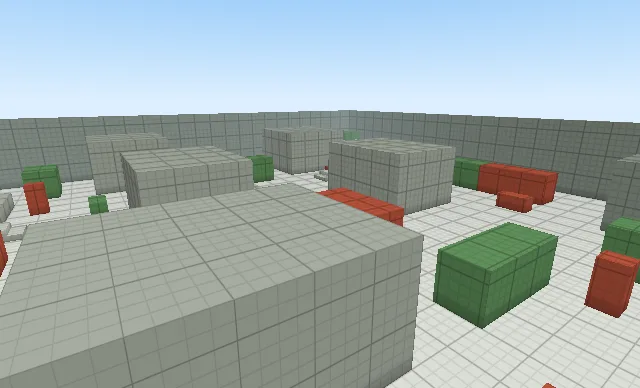
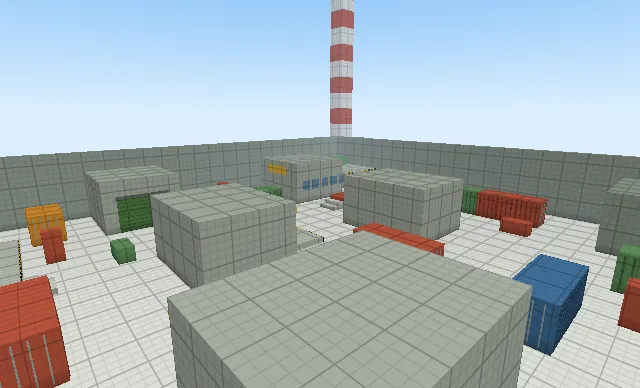
Identidade visual nos mapas de DM
Cada mapa ganha elementos do mapa em que se inspira, quase todos só
visuais (sem colisão), para não mexer na navegação nem nos spawns:

- Medina (Mirage): caixas de fogo, arco mourisco no meio e no túnel,
  toldos listrados, cúpulas azuis, azulejos, janelas e palmeiras.
- Depósito (Cache): chaminé listrada, portas de enrolar verdes,
  contêineres com nervuras, cabine do caminhão, empilhadeira e faixas
  de alerta.
- Borgo (Inferno): igreja com torre do sino e rosácea, galpão de feno
  com fardos, telhados de telha, varais, venezianas e vasos.
- Dust II: portas azuis do Long, portas de madeira, carro verde e o
  grafite do pato.

Cards do menu regerados e README atualizado.

Claude-Session: https://claude.ai/code/session_01SJ8oPAPunZCdTLFhtHxKgN

diff --git a/index.html b/index.html
@@ -830,6 +830,15 @@ MAPS.deathmatch = {
     // Túneis e conector baixo
     B.box(-20.5,-1,C,2*C,C,K.crate);B.box(-18,8,C,C,2*C,K.crate2);B.box(-22.6,11,C,C,C,K.crate);B.box(-12.5,8.6,2*C,C,C,K.crate);
     B.box(-14.5,13.5,C,C,C,K.crate2);B.box(7.5,-1.2,C,C,C,K.crate2);
+    // Identidade (clima do Mirage): caixas de fogo, arcos mouriscos, toldos de mercado, cúpulas de azulejo, palmeiras.
+    propFirebox(B,14.6,-12.0);propFirebox(B,-19.5,-16.2);
+    const arch=(x0,x1,z0,z1,y0,col=0xe9d5aa)=>{const w=(x1-x0)/2,cx=(x0+x1)/2;for(let i=0;i<4;i++){const o=w*(1-i*.22);dR(B,x0,y0+i*.4,z0,cx-o+w*.0,y0+(i+1)*.4,z1,col);dR(B,cx+o,y0+i*.4,z0,x1,y0+(i+1)*.4,z1,col);}dR(B,x0,y0+1.6,z0,x1,5,z1,col);dR(B,x0,4.75,z0-.05,x1,5.05,z1+.05,0x2f6fb0);};
+    arch(-1.2,1.2,-10.5,-9.5,3.0);arch(-21,-19,-7,-6,2.9);
+    propAwning(B,-9,-4,-7.6,4,2.9,[0xc0392b,0xf2ede0],'z');propAwning(B,2.6,-15,4,-6,2.9,[0x2f6fb3,0xf2ede0],'z');propAwning(B,-11,9.6,-4,11,2.9,[0xe0a32e,0xf2ede0],'x');
+    propDome(B,-6.5,-15,2.3,5,0x2e7fa8);propDome(B,10.5,7,3,5,0x2e7fa8);propDome(B,3.5,17.2,1.6,5,0x2e7fa8);
+    propTiles(B,'x+',10,-15.5,-4.5,0,.8,[0x2f6fb3,0xf2ede0,0x3a9fb5]);propTiles(B,'z-',11,-11,-4,0,.8,[0x2f6fb3,0xf2ede0,0x3a9fb5]);propTiles(B,'x+',-9,-5.5,5.5,0,.8,[0x2f6fb3,0xf2ede0,0x3a9fb5]);
+    for(const z of [-13,-8])propPanel(B,'x-',4,z-.6,z+.6,1.6,3.0,0x2b4f6e);for(const x of [7.5,12])propPanel(B,'z-',3,x-.6,x+.6,1.6,3,0x2b4f6e);
+    propPalm(B,23,16.5);propPalm(B,-23,-15.8);propPalm(B,8,-23,5.4);
   }
 };
 // Dust II: norte no topo da planta de referência. A malha usa apenas sólidos e rampas do jogo.
@@ -954,6 +963,19 @@ MAPS.dust2 = {
     crate(-23.4, -25.4, bPlat + 1.35, 1.2, 1.55, .95);
     crate(-27.2, -22.6, bPlat, 1.55, 2.3, 1.45);
     crate(-29.4, -18.1, b, 1.6, 1.6, 2.05);
+
+    // Identidade: portas azuis da Long, portas de madeira do Meio e do B, carro na Long e o ganso pintado no A.
+    const leaf = (x0, z0, x1, z1, y, h, col, trim) => { dR(B, x0, y, z0, x1, y + h, z1, col); const alongZ = z1 - z0 > x1 - x0;
+      for (const f of [.3, .62]) alongZ ? dR(B, x0 - .02, y + h * f, z0 + .08, x1 + .02, y + h * f + .09, z1 - .08, trim) : dR(B, x0 + .08, y + h * f, z0 - .02, x1 - .08, y + h * f + .09, z1 + .02, trim); };
+    leaf(12.3, 8.45, 12.4, 9.5, long, 2.8, 0x2f6aa8, 0x6f9ccc); leaf(14.05, 8.8, 14.15, 9.85, long, 2.8, 0x2f6aa8, 0x6f9ccc);
+    dR(B, 12.3, long + 2.85, 8.3, 14.15, long + 3.05, 8.95, 0x2f6aa8);
+    leaf(-3.5, -10.25, -3.4, -9.3, mid, 2.7, 0x7a5232, 0x5a3b22); leaf(-1.85, -9.9, -1.75, -8.95, mid, 2.7, 0x7a5232, 0x5a3b22);
+    leaf(-17.2, -19.6, -16.25, -19.5, mid, 2.8, 0x7a5232, 0x5a3b22); leaf(-17.2, -17.55, -16.25, -17.45, mid, 2.8, 0x7a5232, 0x5a3b22);
+    B.solid([24, long, -12], [25.8, long + .9, -8], 0x3d6b52); B.solid([24.15, long + .9, -11.2], [25.65, long + 1.5, -8.8], 0x355e48);
+    dR(B, 24.1, long + .95, -11.25, 25.7, long + 1.45, -11.15, 0x22303a); dR(B, 24.1, long + .95, -8.85, 25.7, long + 1.45, -8.75, 0x22303a);
+    for (const x of [23.95, 25.8]) for (const z of [-11.3, -8.8]) dR(B, x, long, z - .35, x + .07, long + .55, z + .35, 0x1d1d1d);
+    const goose = ['..XX....', '.XXXX...', '..XX....', '..XXXXX.', '.XXXXXXX', '..XXXXX.'];
+    goose.forEach((row, r) => [...row].forEach((ch, c) => { if (ch === 'X') dR(B, 23.4 + c * .32, 6.6 - (r + 1) * .32, -34.98, 23.4 + (c + 1) * .32, 6.6 - r * .32, -34.94, 0xf2f0ea); }));
     crate(-21.25, -12.3, b, 2.65, 1.5, 1.1);
     crate(-29.9, -28.8, bPlat, 1.55, 1.5, 1.25);
 
@@ -1004,6 +1026,75 @@ function buildDust2Walls(B, color, ax, az, footprint) {
   }
   for (const [a, b] of walls) B.solid(a, b, color);
 }
+// ---------- Peças de identidade dos mapas (blocos no estilo do jogo) ----------
+// deco = só visual; solid/box = com colisão. Troncos e torres passam de 4,5 m para não virarem "chão".
+const dR=(B,x0,y0,z0,x1,y1,z1,c)=>B.deco([Math.min(x0,x1),Math.min(y0,y1),Math.min(z0,z1)],[Math.max(x0,x1),Math.max(y0,y1),Math.max(z0,z1)],c);
+function propPalm(B,x,z,h=6){
+  B.solid([x-.22,0,z-.22],[x+.22,h,z+.22],0x8a6a43);
+  for(let i=0;i<4;i++)dR(B,x-.27,i*1.4+.7,z-.27,x+.27,i*1.4+.85,z+.27,0x6b5032);
+  const leaf=[0x4f8f3a,0x3e7a2f];
+  for(const [dx,dz] of [[1,0],[-1,0],[0,1],[0,-1],[.7,.7],[-.7,.7],[.7,-.7],[-.7,-.7]])for(let k=0;k<3;k++){
+    const d=.35+k*.75,y=h-.05-k*.32-(dx&&dz?.15:0),cx=x+dx*d,cz=z+dz*d,w=dx&&dz?.32:(k===2?.42:.55);
+    dR(B,cx-(dz&&!dx?w:.45),y-.12,cz-(dx&&!dz?w:.45),cx+(dz&&!dx?w:.45),y,cz+(dx&&!dz?w:.45),leaf[k%2]);
+  }
+  dR(B,x-.32,h-.1,z-.32,x+.32,h+.18,z+.32,0x4f8f3a);
+}
+// Caixa de fogo: caixote de madeira com braseiro de ferro e chamas.
+function propFirebox(B,x,z){
+  B.box(x,z,1.4,1.4,1.1,0x8a5a2e);
+  for(const dz of [-.45,.45])dR(B,x-.72,0,z+dz-.06,x+.72,1.1,z+dz+.06,0x4a3626);
+  dR(B,x-.48,1.1,z-.48,x+.48,1.42,z+.48,0x2e2a28);dR(B,x-.4,1.42,z-.4,x+.4,1.48,z+.4,0x7a2a12);
+  for(const [fx,fz,h,c] of [[0,0,.85,0xff7a1a],[-.2,.12,.6,0xffa52a],[.18,-.15,.7,0xff8d1f],[.05,.2,.45,0xffd23a],[-.12,-.18,.4,0xffd23a],[.2,.18,.35,0xffe27a]])
+    dR(B,x+fx-.13,1.48,z+fz-.13,x+fx+.13,1.48+h,z+fz+.13,c);
+}
+// Toldo listrado de mercado preso a uma parede (axis 'x' = listras ao longo de x).
+function propAwning(B,x0,z0,x1,z1,y,cols,axis){
+  const n=Math.max(2,Math.round((axis==='x'?x1-x0:z1-z0)/.6));
+  for(let i=0;i<n;i++){const a=i/n,b=(i+1)/n,c=cols[i%cols.length];
+    if(axis==='x')dR(B,x0+(x1-x0)*a,y,z0,x0+(x1-x0)*b,y+.12,z1,c);else dR(B,x0,y,z0+(z1-z0)*a,x1,y+.12,z0+(z1-z0)*b,c);}
+}
+function propDome(B,cx,cz,r,y,col,top=0xd9a93a){
+  for(let i=0;i<4;i++){const q=r*(1-i*.24);dR(B,cx-q,y+i*.45,cz-q,cx+q,y+(i+1)*.45,cz+q,i%2?col:0x4a9fc9);}
+  dR(B,cx-.15,y+1.8,cz-.15,cx+.15,y+2.6,cz+.15,top);
+}
+// Faixa de azulejos (quadrados alternados) numa face de parede; face: 'x+','x-','z+','z-' com a coordenada da parede.
+function propTiles(B,face,c,a0,a1,y0,y1,cols,sz=.4){
+  const s=face[1]==='+'?1:-1;
+  for(let a=a0,i=0;a<a1-.01;a+=sz,i++)for(let y=y0,j=0;y<y1-.01;y+=sz,j++){const col=cols[(i+j)%cols.length],a2=Math.min(a1,a+sz),y2=Math.min(y1,y+sz);
+    if(face[0]==='x')dR(B,c,y,a,c+s*.04,y2,a2,col);else dR(B,a,y,c,a2,y2,c+s*.04,col);}
+}
+function propPanel(B,face,c,a0,a1,y0,y1,col,depth=.05){const s=face[1]==='+'?1:-1;if(face[0]==='x')dR(B,c,y0,a0,c+s*depth,y1,a1,col);else dR(B,a0,y0,c,a1,y1,c+s*depth,col);}
+// Porta de enrolar de galpão: painel com nervuras horizontais.
+function propRollDoor(B,face,c,a0,a1,h,col,rib){propPanel(B,face,c,a0,a1,0,h,col,.05);for(let y=.3;y<h;y+=.35)propPanel(B,face,c,a0+.05,a1-.05,y,y+.07,rib,.08);propPanel(B,face,c,a0-.12,a1+.12,h,h+.25,0x5d6661,.12);}
+function propSmokestack(B,x,z,h,w){
+  dR(B,x-w*.75,0,z-w*.75,x+w*.75,3,z+w*.75,0x8c8f8a);
+  for(let y=3,i=0;y<h;y+=3,i++)dR(B,x-w/2,y,z-w/2,x+w/2,Math.min(h,y+3),z+w/2,i%2?0xf1efe8:0xc23b2b);
+  dR(B,x-w*.6,h,z-w*.6,x+w*.6,h+.6,z+w*.6,0x3b3d3c);
+}
+function propContainer(B,x0,z0,x1,z1,h,col,y=0){
+  B.solid([x0,y,z0],[x1,y+h,z1],col);
+  const dark=((col>>16&255)*.72<<16)|((col>>8&255)*.72<<8)|((col&255)*.72|0),longX=x1-x0>z1-z0;
+  if(longX){for(let x=x0+.3;x<x1-.2;x+=.45)for(const z of [z0-.04,z1])dR(B,x,y+.1,z,x+.12,y+h-.1,z+.04,dark);
+    for(const x of [x0-.04,x1])for(let z=z0+.35;z<z1-.2;z+=.5)dR(B,x,y+.15,z,x+.04,y+h-.15,z+.06,0x9aa09c);}
+  else{for(let z=z0+.3;z<z1-.2;z+=.45)for(const x of [x0-.04,x1])dR(B,x,y+.1,z,x+.04,y+h-.1,z+.12,dark);
+    for(const z of [z0-.04,z1])for(let x=x0+.35;x<x1-.2;x+=.5)dR(B,x,y+.15,z,x+.06,y+h-.15,z+.04,0x9aa09c);}
+}
+// Faixa de perigo amarela e preta numa face (para bordas de plataforma).
+function propHazard(B,face,c,a0,a1,y0,y1){const s=face[1]==='+'?1:-1;for(let a=a0,i=0;a<a1-.01;a+=.4,i++){const col=i%2?0x1f1f1f:0xe2b62a,a2=Math.min(a1,a+.4);if(face[0]==='x')dR(B,c,y0,a,c+s*.05,y1,a2,col);else dR(B,a,y0,c,a2,y1,c+s*.05,col);}}
+// Telhado de telhas em três degraus sobre um prédio (cumeeira ao longo do eixo mais longo).
+function propRoof(B,x0,z0,x1,z1,y,col=0xb0583a){
+  const alongX=x1-x0>=z1-z0,half=(alongX?z1-z0:x1-x0)/2+.25;
+  for(let i=0;i<3;i++){const k=i*.3*half;
+    if(alongX)dR(B,x0-.25,y+i*.4,z0-.25+k,x1+.25,y+(i+1)*.4,z1+.25-k,i%2?col:0x9c4a30);
+    else dR(B,x0-.25+k,y+i*.4,z0-.25,x1+.25-k,y+(i+1)*.4,z1+.25,i%2?col:0x9c4a30);}
+}
+function propShutters(B,face,c,a,y,col=0x3f7a4a){propPanel(B,face,c,a-.55,a+.55,y,y+1.1,0x3a2c22,.04);propPanel(B,face,c,a-.95,a-.55,y,y+1.1,col,.07);propPanel(B,face,c,a+.55,a+.95,y,y+1.1,col,.07);}
+function propHay(B,x,z,w,d,h){B.box(x,z,w,d,h,0xd9b54a);for(let i=1;i<3;i++){const yy=h*i/3;dR(B,x-w/2-.03,yy-.04,z-d/2-.03,x+w/2+.03,yy+.04,z+d/2+.03,0xb08a2c);}}
+function propLaundry(B,x0,z0,x1,z1,y){
+  dR(B,x0,y,z0-.02,x1,y+.03,z1+.02,0x3b3b3b);
+  const cols=[0xf2f0ea,0xc0392b,0x2f6fb3,0xe8c64a,0x6aa84f];const L=Math.hypot(x1-x0,z1-z0);
+  for(let i=0;i*1.1+.6<L;i++){const t=(i*1.1+.6)/L,x=x0+(x1-x0)*t,z=z0+(z1-z0)*t;dR(B,x-.3,y-.8,z-.03,x+.3,y,z+.03,cols[i%cols.length]);}
+}
 // Escada de degraus de 0,4 m (o passo sobe sozinho): começa na beirada de uma plataforma de altura `top`
 // e desce para fora na direção (dx, dz), com largura w.
 function dmStairs(B,x,z,dx,dz,w,top,col){for(let i=1;i*.4<top-.01;i++){const c=(i-.5)*.8;B.box(x+dx*c,z+dz*c,dx?.8:w,dz?.8:w,Math.round((top-i*.4)*100)/100,col);}}
@@ -1024,9 +1115,8 @@ MAPS.dmdeposito = {
     bld(-14,-24,-7,-16);       // depósito noroeste
     bld(15,15,24,24,K.wall);   // canto sudeste
     // contêineres de 2,6 m: cobertura alta, sem subir
-    dmRect(B,-3,-14.2,3,-11.8,CT,K.crate);dmRect(B,-1.2,3,1.2,9,CT,K.crate2);dmRect(B,-2,13.8,4,16.2,CT,K.crate);
-    dmRect(B,-21.2,-3,-18.8,3,CT,K.crate2);dmRect(B,17.8,-2,20.2,4,CT,K.crate);dmRect(B,17.8,4,20.2,10,CT,K.crate2);
-    dmRect(B,-12,19.8,-6,22.2,CT,K.crate2);dmRect(B,7.8,17,10.2,23,CT,K.crate);dmRect(B,-19.2,-21,-16.8,-17,CT,K.crate);
+    for(const [x0,z0,x1,z1,col] of [[-3,-14.2,3,-11.8,K.crate],[-1.2,3,1.2,9,K.crate2],[-2,13.8,4,16.2,0x3f6f9a],[-21.2,-3,-18.8,3,K.crate2],[17.8,-2,20.2,4,K.crate],
+      [17.8,4,20.2,10,K.crate2],[-12,19.8,-6,22.2,0x3f6f9a],[7.8,17,10.2,23,K.crate],[-19.2,-21,-16.8,-17,0xd08a2e]])propContainer(B,x0,z0,x1,z1,CT,col);
     // partes elevadas
     dmRect(B,-24,-16,-20,-6,1.2,K.plat);dmStairs(B,-20,-7.2,1,0,2,1.2,K.ramp);                 // passarela oeste
     dmRect(B,17,-24,24,-15,2.4,K.plat);dmStairs(B,19.5,-15,0,1,2.4,2.4,K.ramp);                // mirante nordeste
@@ -1037,6 +1127,18 @@ MAPS.dmdeposito = {
     B.box(-14,-9.5,C,2*C,C,K.crate);B.box(-9,8.6,2*C,C,C,K.crate2);B.box(12.5,-5.5,2*C,C,C,K.crate);B.box(1.5,-17.5,C,C,C,K.crate2);
     B.box(-21.5,9,C,C,C,K.crate);B.box(15,9,C,2*C,C,K.crate2);B.box(5.5,13.5,C,C,C,K.crate);B.box(-6,-13,C,C,C,K.crate2);
     B.box(22.6,-4,1.8,1.2,2*C,K.crate);B.box(0,-20.5,C,C,2*C,K.crate2);B.box(-14,4.5,C,C,2*C,K.crate);B.box(-18,-12.5,C,C,2*C,K.crate2);B.box(4,18.5,C,C,2*C,K.crate2);
+    // Identidade (clima do Cache): chaminé listrada ao fundo, portas de enrolar nos galpões, cabine do caminhão,
+    // empilhadeira, faixas de perigo nas bordas elevadas, parede quadriculada e janelas de escritório.
+    propSmokestack(B,32,-31,34,3.2);dR(B,27,0,-36,37,6,-29,0x7d827d);
+    propRollDoor(B,'z-',8,-15.2,-11.4,3.4,0x4f7a43,0x3f6234);propRollDoor(B,'z-',8,-10.6,-6.8,3.4,0x4f7a43,0x3f6234);
+    propRollDoor(B,'x+',-5,-6.5,-2.5,3.2,0x4f7a43,0x3f6234);propRollDoor(B,'z+',-16,-12.8,-8.2,3.2,0x4f7a43,0x3f6234);
+    propPanel(B,'z-',8,-16,-6,4.2,4.6,0xe2b62a);propPanel(B,'x+',-5,-8,1,4.2,4.6,0xe2b62a);
+    B.box(17.8,-9,1.6,2.4,2.5,0x3b6fa8);dR(B,18.6,1.4,-9.9,18.66,2.3,-8.1,0x24323c);dR(B,16.9,1.5,-10.25,18.7,2.2,-10.19,0x24323c);
+    for(const x of [10,12.5,15,17.8])for(const z of [-10.32,-7.68])dR(B,x-.45,0,z-.06,x+.45,.75,z+.06,0x1d1d1d);
+    B.box(15,-5.3,1.2,1.6,1.1,0xe0b52c);dR(B,14.45,1.1,-6.1,15.55,1.25,-4.5,0x2d2d2d);dR(B,14.5,0,-6.3,14.62,2.6,-6.1,0x3a3a3a);dR(B,15.38,0,-6.3,15.5,2.6,-6.1,0x3a3a3a);dR(B,14.5,.2,-7.2,15.5,.28,-6.3,0x7a7a7a);
+    propHazard(B,'x+',-20,-16,-7.2,.75,1.2);propHazard(B,'z+',-15,17,19.5-1.2,1.95,2.4);propHazard(B,'z+',-15,20.7,24,1.95,2.4);propHazard(B,'x+',-1.5,-7,0,.75,1.2);
+    for(let z=-6;z<6;z+=.8)for(let y=0;y<3.2;y+=.8)dR(B,-23.98,y,z,-23.94,y+.8,z+.8,((z+6)/.8+y/.8)%2<1?0x1e1e1e:0xf0f0ee);
+    for(let x=7;x<13.5;x+=1.6)propPanel(B,'z+',-13,x,x+1.1,1.6,2.8,0x5f8399);propPanel(B,'x-',6,-19,-15,3.4,4.4,0xe2b62a);
   }
 };
 // Borgo: vila italiana com ruelas, igreja, corredor estreito a oeste, sacadas a 2,4 m no leste (dois acessos)
@@ -1054,7 +1156,7 @@ MAPS.dmborgo = {
     bld(-12,3,-4,9);             // casas do corredor
     bld(-24,12,-18,24,K.wall);   // sudoeste
     bld(2,-14,10,-6);            // quarteirão norte
-    bld(4,0,10,8);               // quarteirão leste
+    bld(4,0,10,8,0x7a5232);      // galpão de feno (madeira)
     bld(14,-24,24,-18);          // sobrado nordeste
     bld(-3,16,6,24);             // sobrados do sul
     // arcos: muros com vãos de 2,4 m
@@ -1068,10 +1170,28 @@ MAPS.dmborgo = {
     dmRect(B,-4,-9,1,-5,1.2,K.plat);dmStairs(B,1,-7,1,0,2,1.2,K.ramp);dmStairs(B,-1.5,-5,0,1,2,1.2,K.ramp);
     B.box(0,1,2.2,2.2,.9,K.crate2);                                                           // fonte
     // caixotes e carroças
-    B.box(-16,-14,2*C,C,C,K.crate);B.box(-20.5,-15,C,C,2*C,K.crate2);B.box(-14.5,15,C,C,C,K.crate);B.box(-15.5,0,C,2*C,C,K.crate2);
+    propHay(B,-16,-14,2*C,C,C);B.box(-20.5,-15,C,C,2*C,K.crate2);propHay(B,-14.5,15,C,C,C);B.box(-15.5,0,C,2*C,C,K.crate2);
     B.box(13,-14,C,2*C,C,K.crate);B.box(14.5,8,2*C,C,C,K.crate2);B.box(9,12,C,C,C,K.crate);B.box(2,11,2*C,C,C,K.crate);
     B.box(-6,13,C,C,C,K.crate2);B.box(-1,-18.5,2*C,C,C,K.crate);B.box(16,19,C,C,2*C,K.crate2);B.box(7,-16.5,C,C,C,K.crate);
     B.box(5,-19.5,2,2,H,K.wall);B.box(-15.5,14.8,3,1,H,K.wall);B.box(3,-2.5,C,C,C,K.crate);B.box(13,16,C,C,2*C,K.crate);
+    // Identidade (clima do Inferno): igreja com torre do sino, telhados de telha, galpão de feno, fardos,
+    // varais nas ruelas, venezianas verdes, fonte com água e vasos de barro.
+    B.solid([-9,5,-21.5],[-6.4,9.6,-18.9],0xd9b98a);
+    for(const [x,z] of [[-9,-21.5],[-6.8,-21.5],[-9,-19.3],[-6.8,-19.3]])B.solid([x,9.6,z],[x+.4,11.4,z+.4],0xd9b98a);
+    dR(B,-8.1,9.9,-20.6,-7.3,10.9,-19.8,0xb8862b);dR(B,-7.85,10.9,-20.35,-7.55,11.2,-20.05,0x6b4b1e);
+    for(let i=0;i<3;i++){const q=1.5-i*.45;dR(B,-7.7-q,11.4+i*.45,-20.2-q,-7.7+q,11.85+i*.45,-20.2+q,i%2?0xb0583a:0x9c4a30);}
+    dR(B,-7.8,12.75,-20.3,-7.6,13.6,-20.1,0x3a3a3a);dR(B,-8.15,13.15,-20.25,-7.25,13.3,-20.15,0x3a3a3a);
+    propPanel(B,'z+',-17,-11.2,-8.8,0,3.2,0x5a3b22,.06);for(const x of [-10.6,-9.4])dR(B,x-.04,.3,-16.94,x+.04,2.9,-16.88,0x3a2616);
+    for(let i=0;i<4;i++){const q=.85-i*.2;dR(B,-10-q,4.15-q,-16.98,-10+q,4.15+q,-16.92+i*.02,[0x7a5a3a,0xb03a2e,0x2f6fb3,0xe0b52c][i]);} // rosácea
+    for(const [x0,z0,x1,z1] of [[-14,-24,-6,-17],[-24,-10,-18,4],[-12,-11,-5,-4],[-12,3,-4,9],[-24,12,-18,24],[2,-14,10,-6],[14,-24,24,-18],[-3,16,6,24]])propRoof(B,x0,z0,x1,z1,5);
+    propRoof(B,4,0,10,8,5,0x8b3a2a);
+    propPanel(B,'x-',4,1,7,0,3.6,0x8a5d36,.06);for(const z of [1.1,4.05])dR(B,3.9,.1,z,3.95,3.5,z+2.85,0x6a4528);dR(B,3.88,1.6,1,3.93,1.9,7,0xf2ede0);dR(B,3.88,0,3.98,3.93,3.6,4.02,0x3a2616);
+    propPanel(B,'x-',4,3.2,4.8,4.0,4.8,0x2a1d14,.06);propHay(B,2.8,6.6,1.2,1.4,.9);
+    propLaundry(B,-18,-7,-12,-7,3.9);propLaundry(B,10.2,-9.8,18,-9.8,4.0);propLaundry(B,-12,11,-4,11,3.8);
+    for(const [f,c,a,y] of [['x+',-18,-6,2.4],['x+',-18,-1,2.4],['z-',3,-9,2.6],['z-',3,-6,2.6],['x+',10,-11,2.4],['z+',-4,-9,2.4],['x-',-12,-8,2.4],['z-',16,1.5,2.6],['x+',-18,18,2.4]])propShutters(B,f,c,a,y);
+    dR(B,-.95,.9,.05,.95,.95,1.95,0x4a90c8);dR(B,-.2,0,.8,.2,1.7,1.2,0xd9c7a2);dR(B,-.45,1.6,.55,.45,1.75,1.45,0xd9c7a2);
+    for(const [x,z] of [[-17.6,-3],[-11.6,-12],[9.6,-5.6],[17.6,13],[-3.6,15.6],[1.6,-13.6]])dR(B,x-.25,0,z-.25,x+.25,.55,z+.25,0xb0583a);
+    for(let z=-11.6;z<12;z+=1.6)dR(B,17.9,2.4,z,18.05,3.4,z+.12,0x6a4528);dR(B,17.88,3.3,-12,18.06,3.42,12,0x6a4528);
   }
 };
 if (!MAPS[S.dmMap]?.dm) S.dmMap = 'deathmatch';
@@ -1132,6 +1252,7 @@ function buildMap(id) {
   const B = {
     solid,
     ramp,
+    deco: (a, b, hex) => addBoxTo(out, a, b, hex, false, false), // só visual: sem colisão, sem bloquear tiro
     deck: (a, b, col) => solid(a, b, col, true),
     box: (x, z, w, d, h, col, y0 = 0) => solid([x - w / 2, y0, z - d / 2], [x + w / 2, y0 + h, z + d / 2], col),
     pair: (x, z, w, d, h, col, y0 = 0) => { B.box(x, z, w, d, h, col, y0); B.box(-x, -z, w, d, h, col, y0); },

diff --git a/README.md b/README.md
@@ -103,10 +103,10 @@ Os cinco mapas de duelo são simétricos (girados 180°), com chão branco e uma
 | Ponte | roxo | Ponte elevada no meio; dá para passar por baixo |
 | Fortes | laranja | Cada base fica num forte elevado, com duas rampas descendo e um muro alto no meio |
 | Rotação | — | Fila com os 5 mapas em ordem aleatória; quando a fila acaba, embaralha de novo |
-| Medina | areia | Mapa exclusivo do DM: assimétrico, dois sites elevados com escadas, meio com portas, túneis, longa e passarela |
-| Dust II | areia | Recriação simplificada para DM com Long e Pit, Short sobre a passagem do CT, Meio com Xbox, Túneis B em dois níveis e caixas nos bombsites |
-| Depósito | concreto | DM próprio no clima industrial do Cache: galpões, contêineres de 2,6 m, passarela a 1,2 m no oeste, mirante a 2,4 m no nordeste, passarela elevada no meio com duas escadas e um caminhão em que dá para subir |
-| Borgo | terracota | DM próprio no clima de vila italiana do Inferno: ruelas e arcos, igreja, corredor estreito a oeste, sacadas de apartamento a 2,4 m no leste com escadas nas duas pontas, terraço baixo e fonte na praça |
+| Medina | areia | Mapa exclusivo do DM, no clima da Mirage: assimétrico, dois sites elevados com escadas, meio com portas e arco mourisco, túneis, longa e passarela. Caixas de fogo, toldos listrados do mercado, cúpulas azuis, faixas de azulejo e palmeiras |
+| Dust II | areia | Recriação simplificada para DM com Long e Pit, Short sobre a passagem do CT, Meio com Xbox, Túneis B em dois níveis e caixas nos bombsites. Portas azuis do Long, portas de madeira do meio e do B, carro verde e o grafite do pato |
+| Depósito | concreto | DM próprio no clima industrial do Cache: galpões, contêineres de 2,6 m, passarela a 1,2 m no oeste, mirante a 2,4 m no nordeste, passarela elevada no meio com duas escadas e um caminhão em que dá para subir. Chaminé listrada ao fundo, portas de enrolar verdes, contêineres coloridos com nervuras, cabine do caminhão, empilhadeira e faixas de alerta amarelo e preto |
+| Borgo | terracota | DM próprio no clima de vila italiana do Inferno: ruelas e arcos, igreja, corredor estreito a oeste, sacadas de apartamento a 2,4 m no leste com escadas nas duas pontas, terraço baixo e fonte na praça. Igreja com torre do sino e rosácea, galpão de feno de madeira com fardos, telhados de telha, varais nas ruelas, venezianas verdes e vasos de barro |
 
 No 1v1 e no 2v2 vale o mapa escolhido por quem criou a sala.
 
